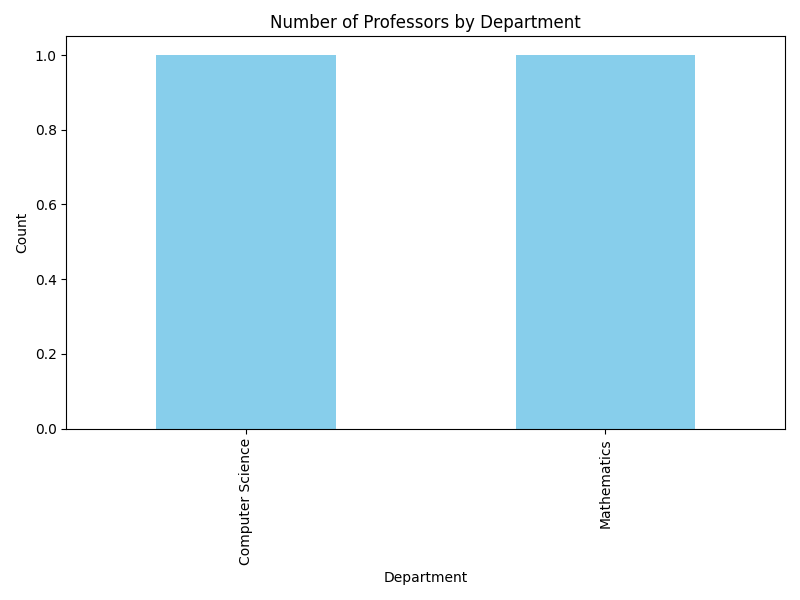
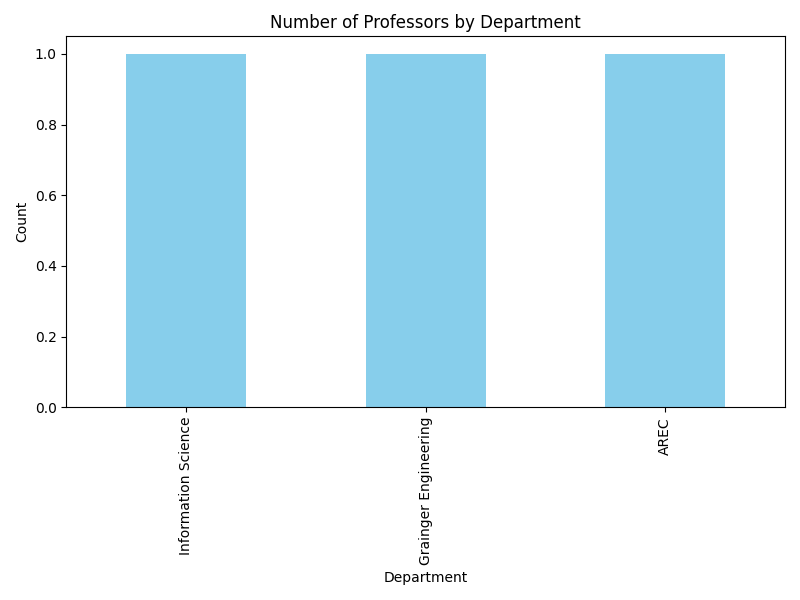
描述本次提交的功能或修复

diff --git a/data_analysis.py b/data_analysis.py
@@ -1,22 +1,34 @@
-import json
 import pandas as pd
 import matplotlib.pyplot as plt
 from reportlab.lib.pagesizes import letter
 from reportlab.pdfgen import canvas
 from reportlab.lib.units import inch
+from pymongo import MongoClient, errors
 
 # ---------------------------
-# 1. Data Loading
+# 1. Data Loading from MongoDB
 # ---------------------------
+try:
+    client = MongoClient("mongodb://127.0.0.1:27017/", serverSelectionTimeoutMS=5000)
+    client.server_info()  # Check connection
+    db = client["professor_dashboard"]  # Database name
+    collection = db["professors"]         # Collection name
+    print("Connected to MongoDB successfully.")
+except errors.ServerSelectionTimeoutError as err:
+    print("Failed to connect to MongoDB:", err)
+    raise err
 
-# Method 1: Load from a local JSON file (e.g., located at src/assets/data/professors.json)
-json_file = 'src/assets/data/professors.json'
-with open(json_file, 'r') as f:
-    data = json.load(f)
+# Fetch data from the 'professors' collection, excluding the '_id' field
+data = list(collection.find({}, {"_id": 0}))
+if not data:
+    print("No data found in MongoDB.")
+else:
+    print("Data loaded successfully from MongoDB:")
+    print(data)
 
 # Convert the data into a Pandas DataFrame
 df = pd.DataFrame(data)
-print("Data loaded successfully:")
+print("\nDataFrame head:")
 print(df.head())
 
 # ---------------------------
